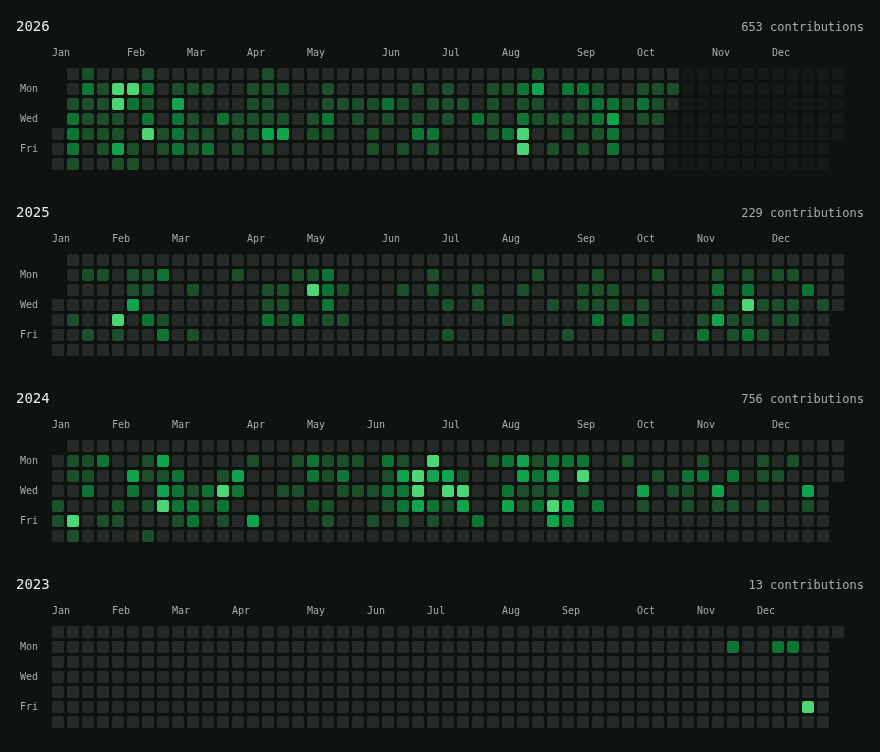
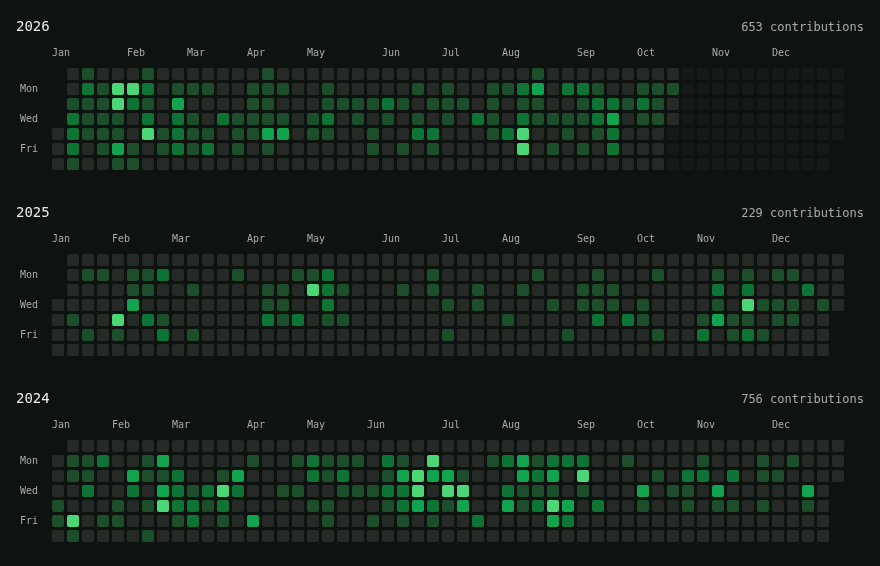
ci: refresh work contributions daily

diff --git a/AUTOMATION.md b/AUTOMATION.md
@@ -1,0 +1,20 @@
+# Contribution refresh
+
+- Daily at **00:17 UTC / 07:17 WIB**, plus manual runs in **Actions → Refresh work contributions → Run workflow**. GitHub schedules can be delayed.
+- Fetches `hungryfool-klg`’s GitHub contribution calendars from **2024 through the current UTC year**. Counts use the workflow token’s public view; no work credentials or repository details are stored.
+- Validates data and hover/touch/keyboard behavior, regenerates `docs/contributions.png`, and commits the JSON/image as `github-actions[bot]`. The profile text stays unchanged.
+- Explicitly deploys `docs` to Pages in the same run. Bot commits do not trigger another run. Pages must use **GitHub Actions**, not branch builds.
+- A fetch/check failure stops publication and leaves the last published snapshot intact. Runs that change neither data nor image do not create a commit.
+
+## Local check or refresh
+
+```sh
+npm ci --ignore-scripts
+npx playwright install chromium
+python3 -m http.server 8766 --bind 127.0.0.1 --directory docs
+# In another terminal:
+npm run check
+GH_TOKEN=... npm run refresh
+```
+
+Use a token through the environment; never commit it. On a machine with system Chromium, set `CHROMIUM_PATH` to its executable. An alternate preview URL can be passed to either script, for example `node refresh.cjs http://127.0.0.1:8767/`.
